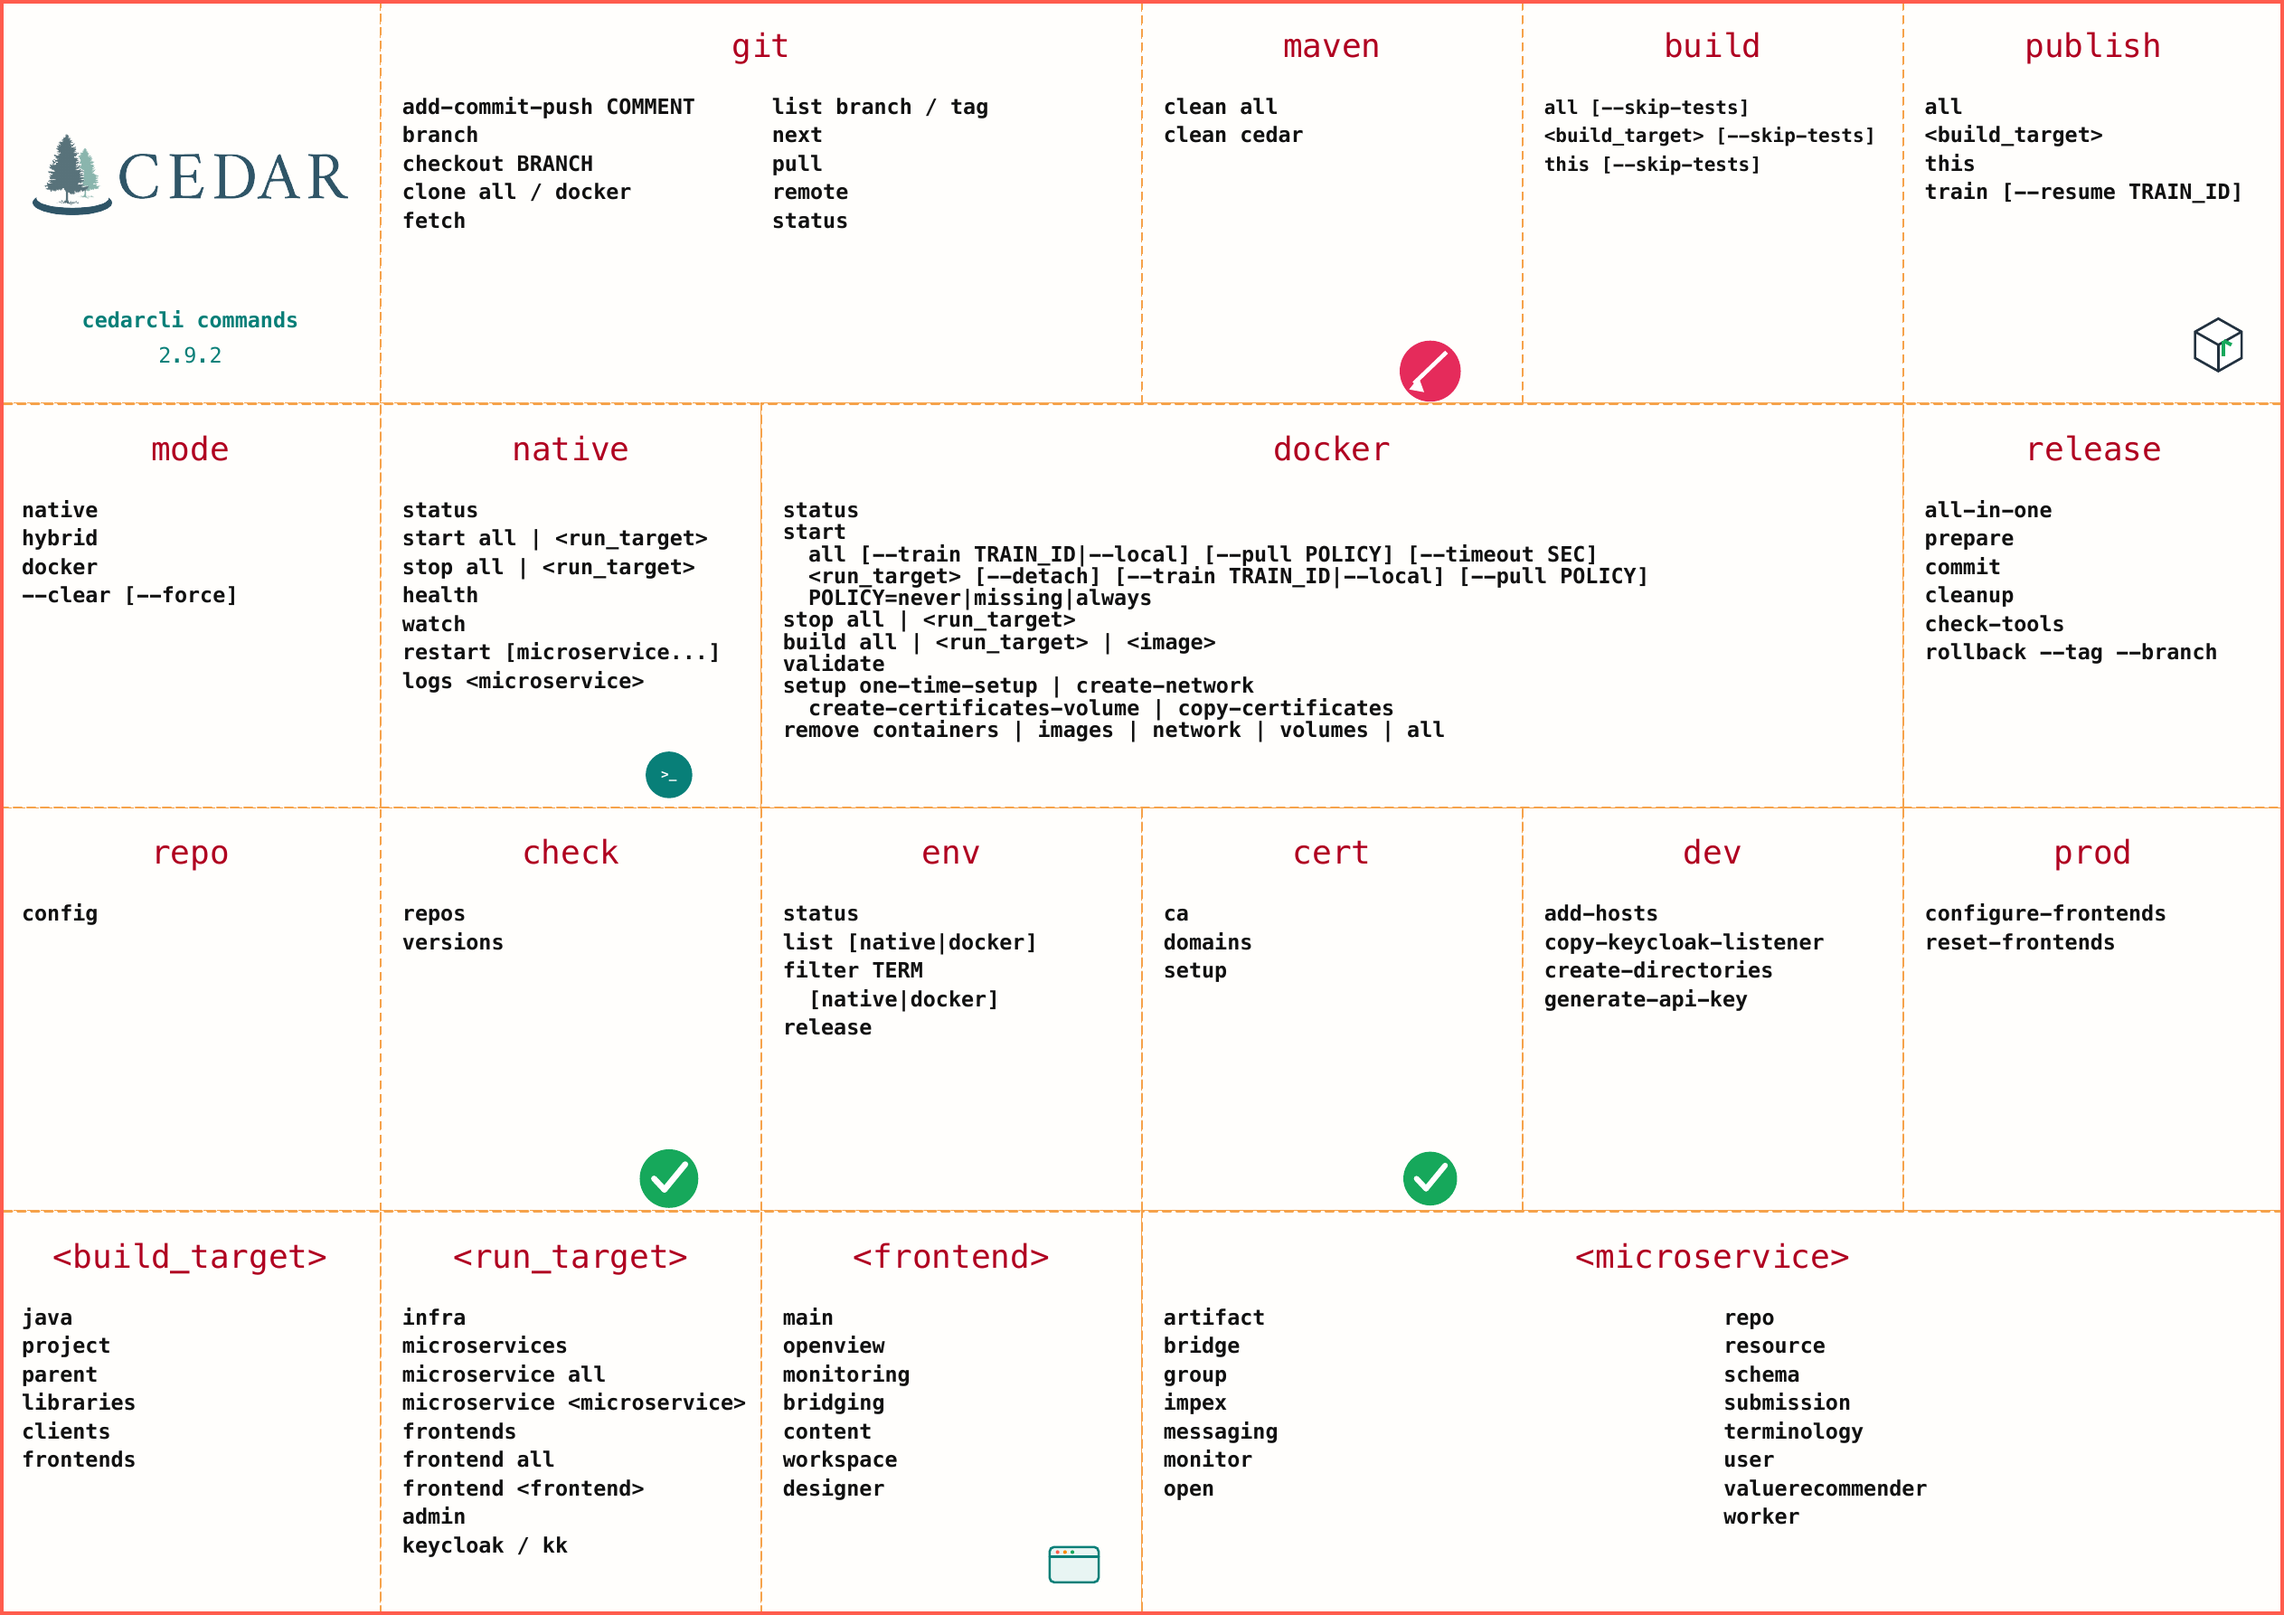
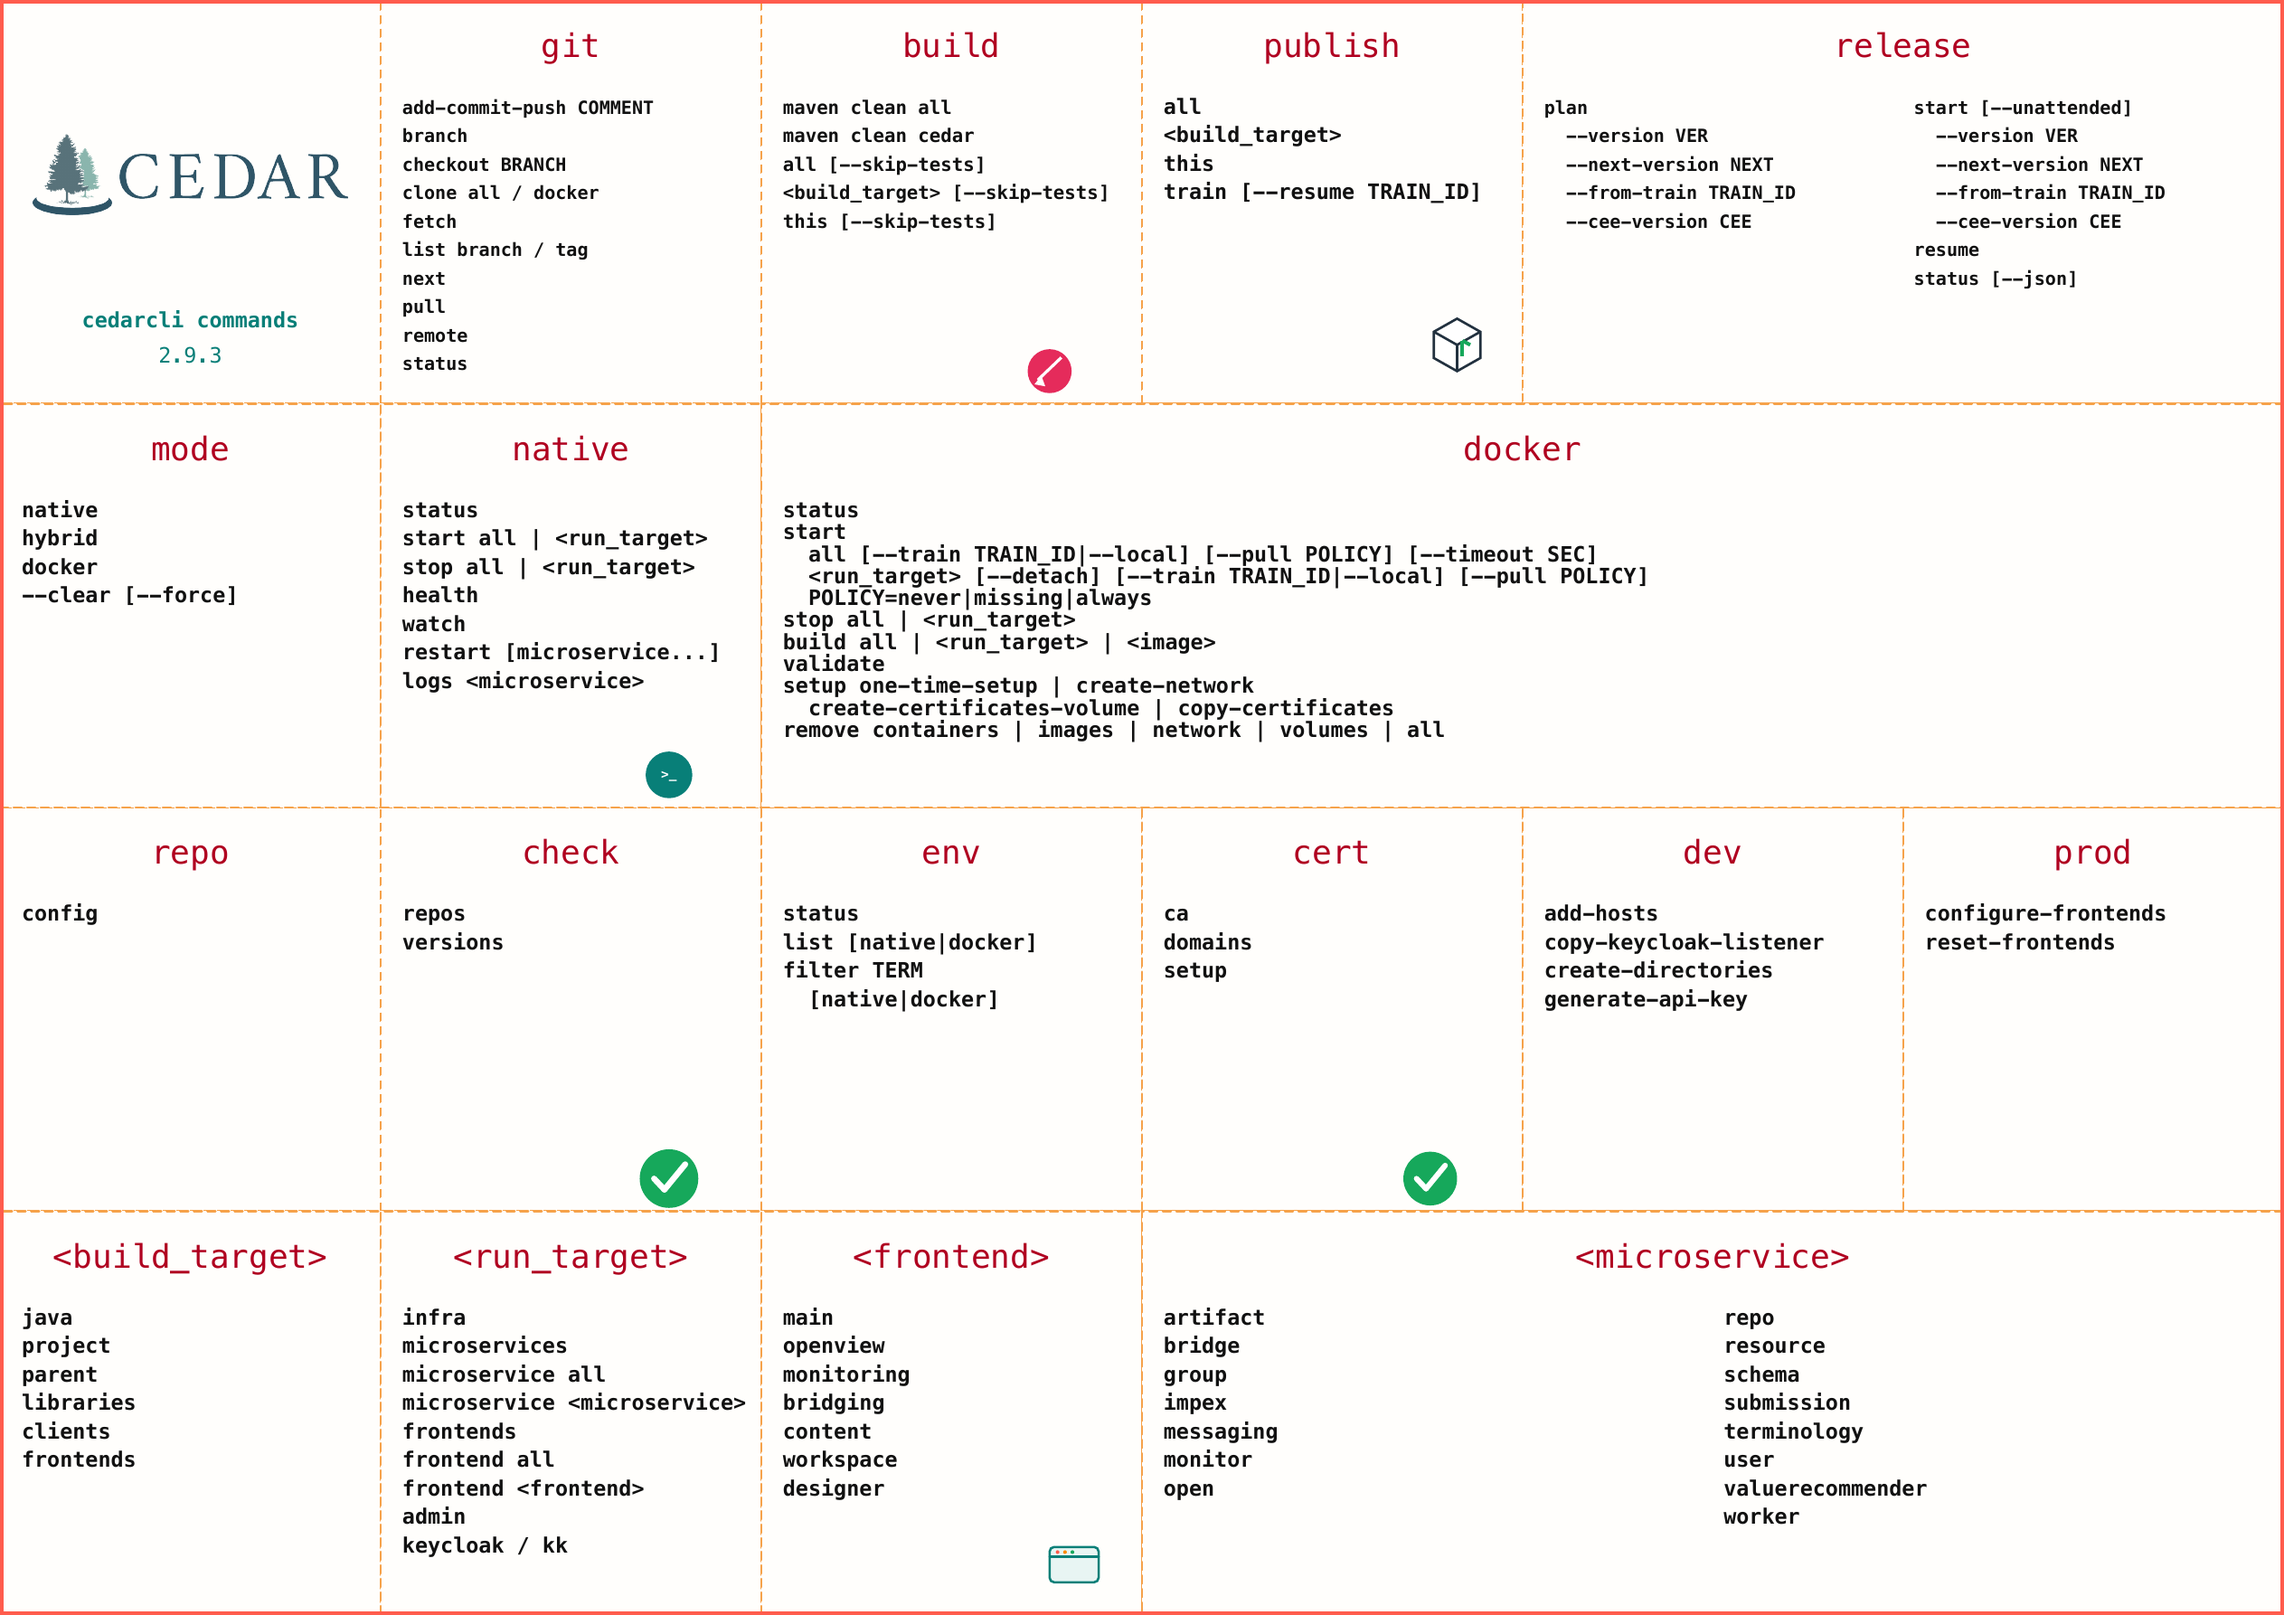
Nest Maven cleanup under build

diff --git a/tests/test_build_policy.py b/tests/test_build_policy.py
@@ -6,7 +6,7 @@ from unittest.mock import Mock, patch
 from typer.testing import CliRunner
 
 from CedarCliSettings import CedarCliSettings
-from org.metadatacenter import build
+from org.metadatacenter import build, clean_maven
 from org.metadatacenter.config.ReposFactory import ReposFactory
 from org.metadatacenter.executor.PlanExecutor import PlanExecutor
 from org.metadatacenter.model.Plan import Plan
@@ -80,6 +80,26 @@ class BuildPolicyTest(unittest.TestCase):
             result = self.runner.invoke(build.app, [command, "--help"])
             self.assertEqual(0, result.exit_code, result.output)
             self.assertNotIn("--skip-tests", self.plain_output(result.output))
+
+    @patch.object(clean_maven.CleanMavenWorker, "all")
+    @patch.object(clean_maven.CleanMavenWorker, "cedar")
+    def test_maven_cache_cleaning_is_nested_under_build(self, clean_cedar, clean_all):
+        cedar_result = self.runner.invoke(build.app, ["maven", "clean", "cedar"])
+        all_result = self.runner.invoke(build.app, ["maven", "clean", "all"])
+
+        self.assertEqual(0, cedar_result.exit_code, cedar_result.output)
+        self.assertEqual(0, all_result.exit_code, all_result.output)
+        clean_cedar.assert_called_once_with()
+        clean_all.assert_called_once_with()
+
+    def test_maven_is_not_a_top_level_command(self):
+        import cedar
+
+        build_help = self.runner.invoke(cedar.app, ["build", "maven", "clean", "--help"])
+        top_level = self.runner.invoke(cedar.app, ["maven", "--help"])
+
+        self.assertEqual(0, build_help.exit_code, build_help.output)
+        self.assertEqual(2, top_level.exit_code, top_level.output)
 
     def test_openview_build_runs_its_production_asset_gate(self):
         repos = ReposFactory.build_repos()

diff --git a/cedar.py b/cedar.py
@@ -10,7 +10,7 @@ except ModeError as error:
     typer.echo(str(error), err=True)
     raise SystemExit(1)
 
-from org.metadatacenter import git, build, publish, maven, repo, env, release, release_train, check, docker, dev, cert, prod, native, mode
+from org.metadatacenter import git, build, publish, repo, env, release, release_train, check, docker, dev, cert, prod, native, mode
 from org.metadatacenter.util.GlobalContext import GlobalContext
 from org.metadatacenter.worker.CheatWorker import CheatWorker
 
@@ -21,7 +21,6 @@ app.add_typer(repo.app, name="repo", help="Configured repo info...")
 app.add_typer(git.app, name="git", help="Git operations on all repos...")
 app.add_typer(build.app, name="build", help="Build various components...")
 app.add_typer(publish.app, name="publish", help="Publish build artifacts...")
-app.add_typer(maven.app, name="maven", help="Maven operations...")
 app.add_typer(env.app, name="env", help="Inspect the effective CEDAR environment safely...")
 app.add_typer(release.app, name="release", help="Create a CEDAR release...")
 release.app.add_typer(release_train.app)

diff --git a/org/metadatacenter/build.py b/org/metadatacenter/build.py
@@ -1,5 +1,6 @@
 import typer
 
+from org.metadatacenter import maven
 from org.metadatacenter.executor.PlanExecutor import PlanExecutor
 from org.metadatacenter.model.Plan import Plan
 from org.metadatacenter.model.TaskType import TaskType
@@ -7,6 +8,7 @@ from org.metadatacenter.planner.BuildPlanner import BuildPlanner
 from org.metadatacenter.util.GlobalContext import GlobalContext
 
 app = typer.Typer(no_args_is_help=True)
+app.add_typer(maven.app, name="maven", help="Maven cache operations...")
 
 plan_executor = PlanExecutor()
 
